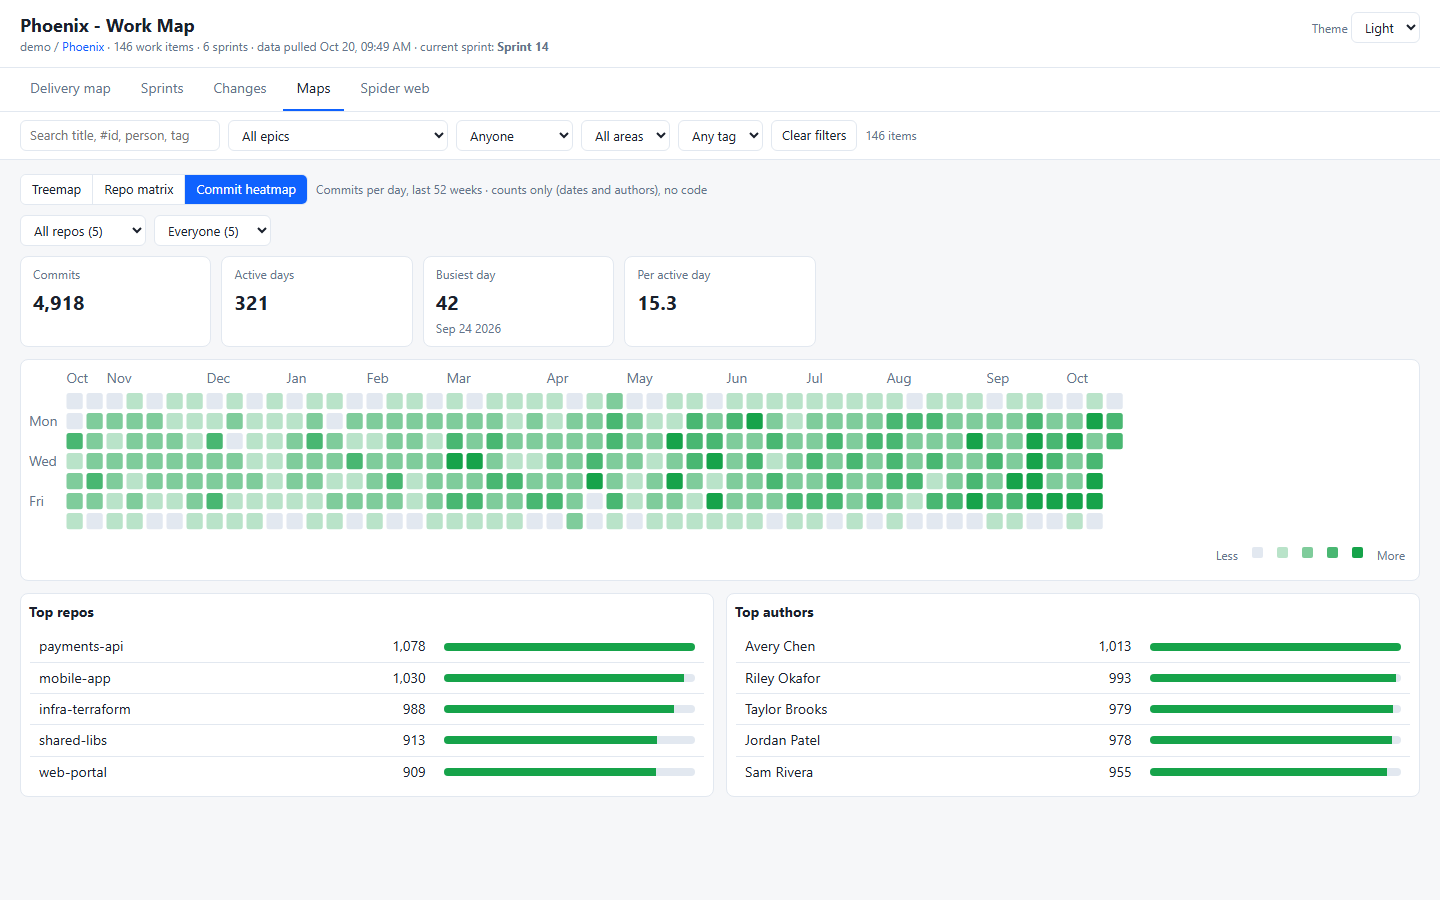
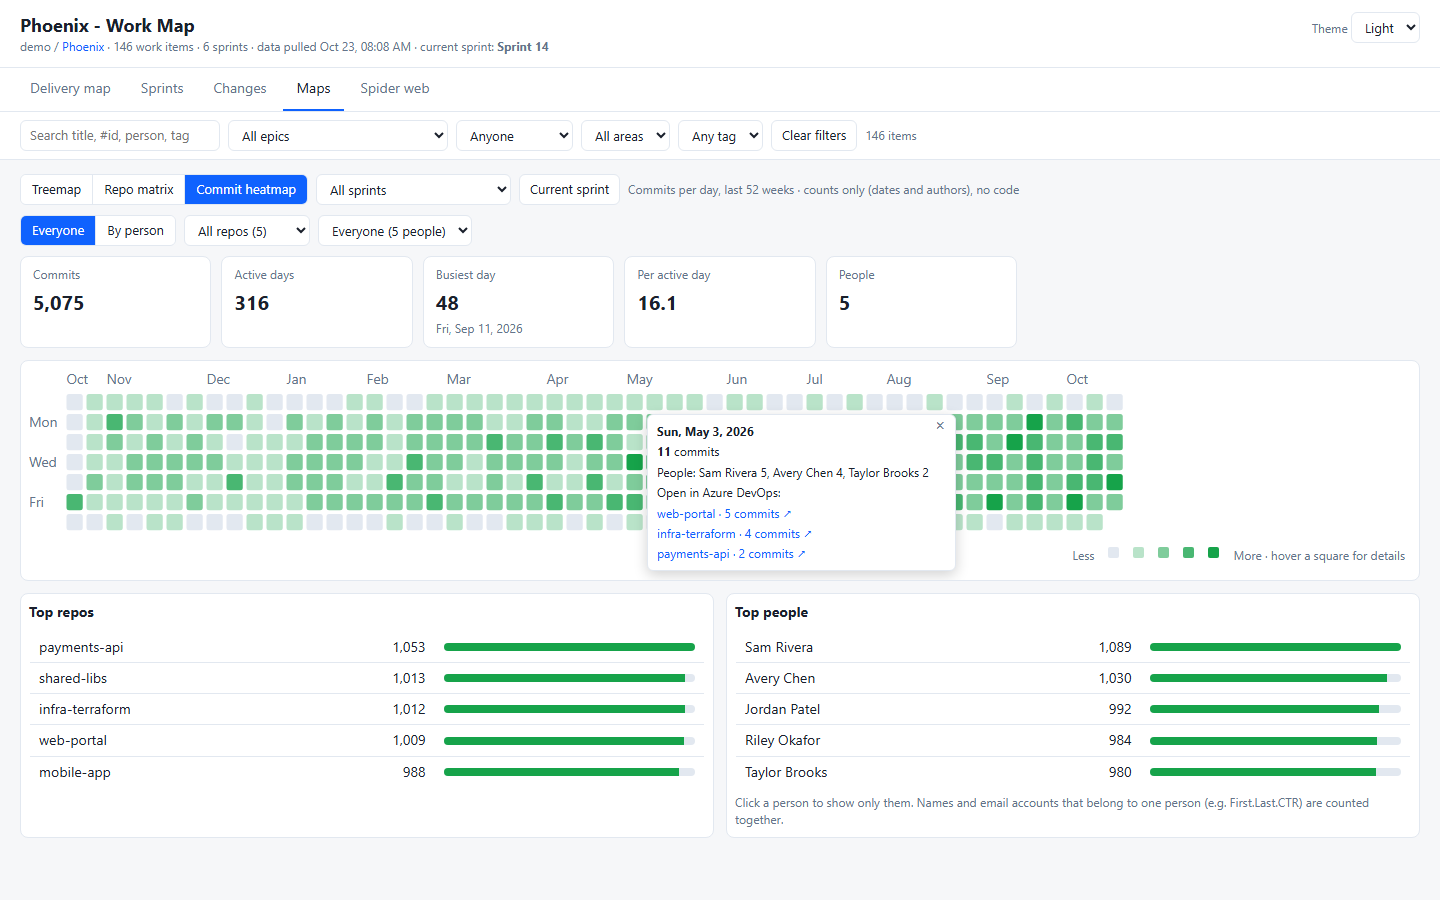
README: new commit heatmap screenshots (everyone, by person, one sprint)

diff --git a/README.md b/README.md
@@ -36,6 +36,8 @@ in an interactive page you can open in any browser.
 - **Tooltips on every square.** Hover for the date, the number of commits, and the people and repos involved. **Click** a square to pin it, with links to those commits in Azure DevOps.
 - **One person, one row.** Commits under different names or accounts, such as `First Last` and `First.Last.CTR`, are counted as one person. Commit data now keeps the part of the email before the @ (never the full address) for this. Run a full refresh to add it to days pulled before this update.
 
+<img src="docs/images/commit-heatmap-sprint.png" alt="Commit heatmap narrowed to the current sprint: a banner with the sprint and its dates, one row per person with a square per day, and a pinned tooltip linking to the commits in Azure DevOps" width="900">
+
 Downloads: [release 1.1.0](https://github.com/DasCondor/ado-work-map/releases/tag/v1.1.0) (VS Code and Azure DevOps extensions). Full history: [releases](https://github.com/DasCondor/ado-work-map/releases) and the [VS Code extension changelog](vscode-extension/CHANGELOG.md).
 
 ## Why
@@ -100,9 +102,16 @@ Other ways to see the same data when a graph gets too busy. Pick a sprint above 
 </tr>
 </table>
 
-<img src="docs/images/commit-heatmap.png" alt="Commit heatmap: a year of commits per day, with top repos and top authors" width="900">
+<img src="docs/images/commit-heatmap.png" alt="Commit heatmap for everyone: a year of commits per day with a pinned tooltip listing the people and repos, plus top repos and top people" width="900">
 
-**Commit heatmap** &mdash; commits per day for the last year, or day by day for one sprint. View **Everyone** in one grid or **By person** with a row each, filter by repo or person, and hover any square for the date, count, people and repos. One person's commits under different names or accounts (e.g. `First Last` and `First.Last.CTR`) are counted together. Only commit dates, author names and the part of the email before the @ are read.
+<table>
+<tr>
+<td width="50%"><img src="docs/images/commit-heatmap-person.png" alt="Commit heatmap by person: a day-by-day calendar for each person"><br><b>By person</b> &mdash; each person's own day-by-day calendar for the year, on one shared scale.</td>
+<td width="50%"><img src="docs/images/commit-heatmap-sprint.png" alt="Commit heatmap for one sprint: a row per person and a square per day"><br><b>One sprint</b> &mdash; a square per day for each person, weekends shaded, days still to come dashed.</td>
+</tr>
+</table>
+
+**Commit heatmap** &mdash; commits per day for the last year, or day by day for one sprint. View **Everyone** in one grid or **By person** with a row each, filter by repo or person, and hover any square for the date, count, people and repos. Click a square to pin it, with links to those commits in Azure DevOps. One person's commits under different names or accounts (e.g. `First Last` and `First.Last.CTR`) are counted together. Only commit dates, author names and the part of the email before the @ are read.
 
 ### Spider web
 
